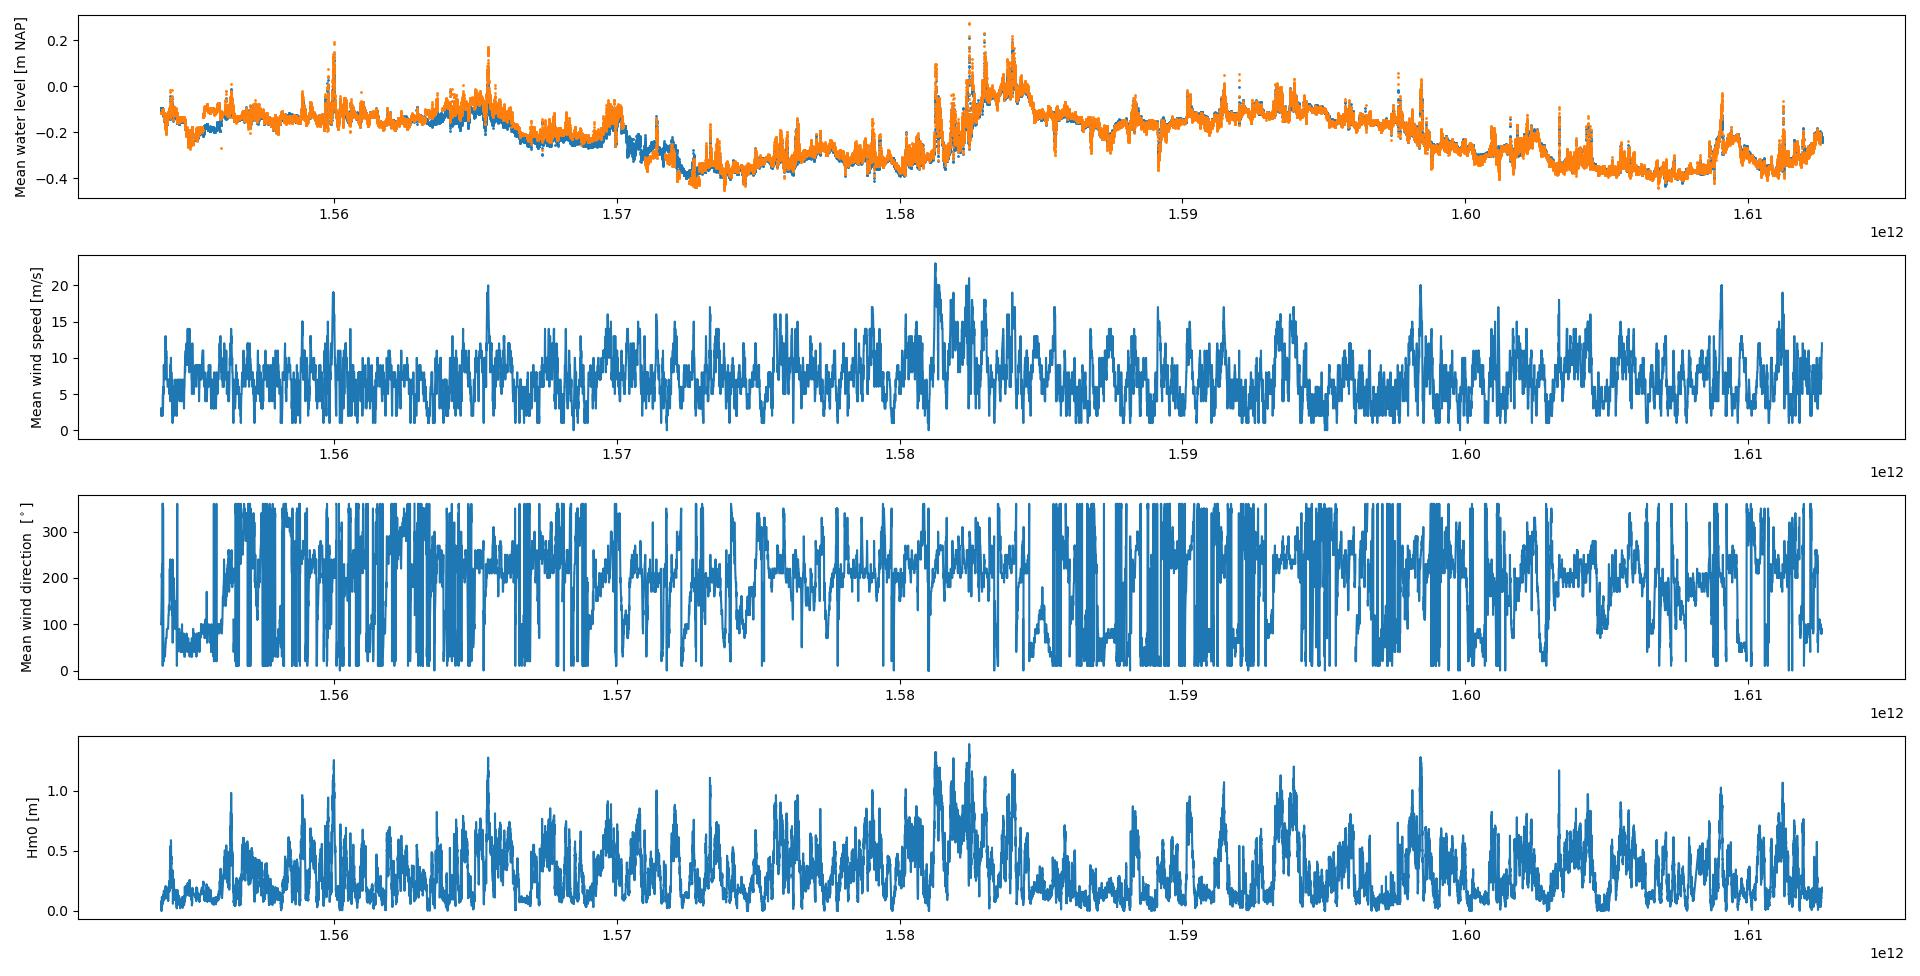
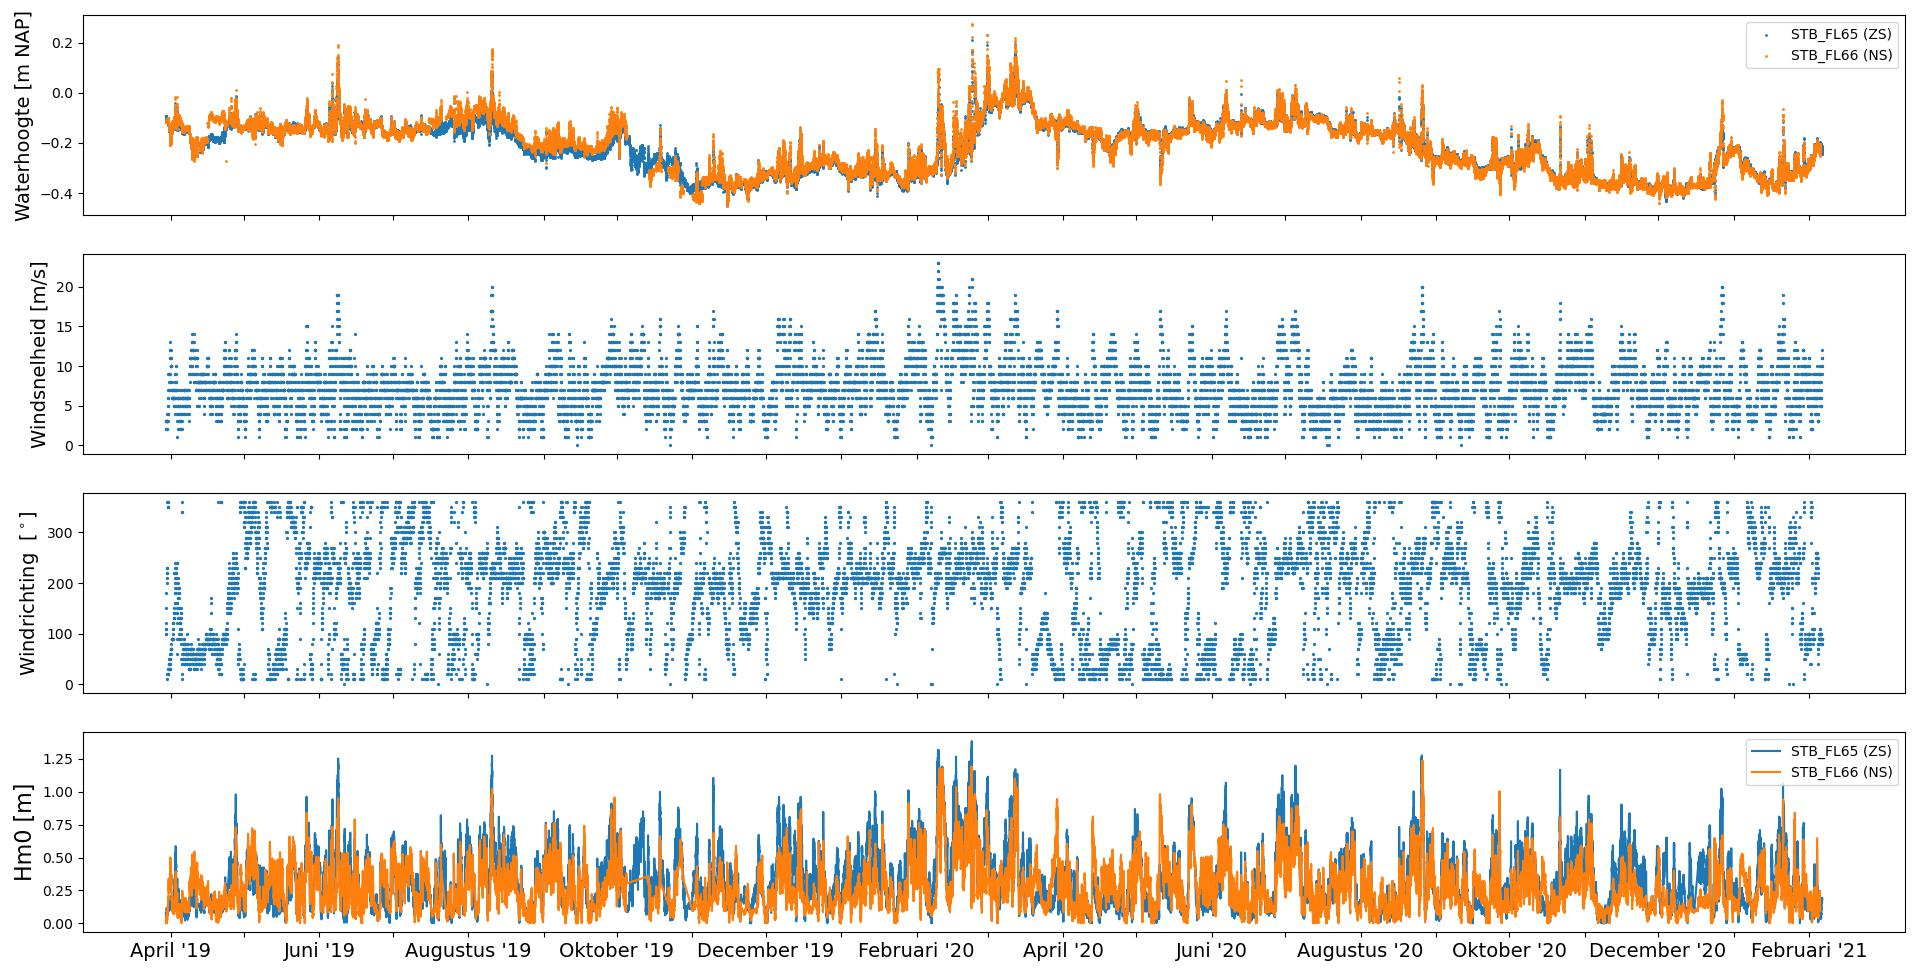
Update Plot_FL65_FL66

diff --git a/Hydrodynamics/plot_FL65_FL66.py b/Hydrodynamics/plot_FL65_FL66.py
@@ -11,29 +11,48 @@ t1 = file2read.variables['time']
 
 file2read = netCDF4.Dataset('Hydrodynamic_Data/STB_FL66_All.nc', 'r') 
 var2 = file2read.variables['GEM_WATHTE']
+Hm02 = file2read.variables['Hm0']
 t2 = file2read.variables['time']
 
 plt.subplot(4,1,1)
-plt.scatter(t1[:], var[:], s=1)
-plt.scatter(t2[:], var2[:], s=1)
-plt.ylabel('Mean water level [m NAP]')
-
+plt.scatter(t1[:], var[:], s=1, label='STB_FL65 (ZS)')
+plt.scatter(t2[:], var2[:], s=1, label='STB_FL66 (NS)')
+plt.ylabel('Waterhoogte [m NAP]', fontsize=14)
+plt.xticks([1554076800000, 1556668800000, 1559347200000, 1561939200000, 1564617600000, 1567296000000, 1569888000000, 1572566400000, 1575158400000, 
+            1577836800000, 1580515200000, 1583020800000, 1585699200000, 1588291200000, 1590969600000, 1593561600000, 1596240000000, 1598918400000,
+            1601510400000, 1604188800000, 1606780800000, 1609459200000, 1612137600000], 
+           [ " " , " " , " " , " ",  " " , " ", " ", " " , " ", " ", " ", " ", " ", " " ," ", " ", " ", " ", " ", " " , " ",  " ", " "])
+plt.legend()
 WindData_Uur = np.array(pd.read_csv('Hydrodynamic_Data/WindData_Uur_Houtribdijk_Period.csv'))
 WindDirection = WindData_Uur[:,3]
 WindDirectionFilt = np.where(WindDirection==990, np.nan, WindDirection)
 
 plt.subplot(4,1,2)
 plt.scatter(WindData_Uur[:,0], WindData_Uur[:,4]/10,s=1.75)
-plt.ylabel('Mean wind speed [m/s]')
+plt.ylabel('Windsnelheid [m/s]', fontsize=14)
+plt.xticks([1554076800000, 1556668800000, 1559347200000, 1561939200000, 1564617600000, 1567296000000, 1569888000000, 1572566400000, 1575158400000, 
+            1577836800000, 1580515200000, 1583020800000, 1585699200000, 1588291200000, 1590969600000, 1593561600000, 1596240000000, 1598918400000,
+            1601510400000, 1604188800000, 1606780800000, 1609459200000, 1612137600000], 
+           [ " " , " " , " " , " ",  " " , " ", " ", " " , " ", " ", " ", " ", " ", " " ," ", " ", " ", " ", " ", " " , " ",  " ", " "])
 
 plt.subplot(4,1,3)
 plt.scatter(WindData_Uur[:,0], WindDirectionFilt,s=1.75)
-plt.ylabel('Mean wind direction  [$^\circ$]')
+plt.ylabel('Windrichting  [$^\circ$]', fontsize=14)
+plt.xticks([1554076800000, 1556668800000, 1559347200000, 1561939200000, 1564617600000, 1567296000000, 1569888000000, 1572566400000, 1575158400000, 
+            1577836800000, 1580515200000, 1583020800000, 1585699200000, 1588291200000, 1590969600000, 1593561600000, 1596240000000, 1598918400000,
+            1601510400000, 1604188800000, 1606780800000, 1609459200000, 1612137600000], 
+           [ " " , " " , " " , " ",  " " , " ", " ", " " , " ", " ", " ", " ", " ", " " ," ", " ", " ", " ", " ", " " , " ",  " ", " "])
 
 plt.subplot(4,1,4)
-plt.plot(t1[:], Hm0[:])
-plt.ylabel('Hm0 [m]')
-
+plt.plot(t1[:], Hm0[:], label='STB_FL65 (ZS)')
+plt.plot(t2[:], Hm02[:], label='STB_FL66 (NS)')
+plt.ylabel('Hm0 [m]', fontsize=16)
+plt.xticks([1554076800000, 1556668800000, 1559347200000, 1561939200000, 1564617600000, 1567296000000, 1569888000000, 1572566400000, 1575158400000, 
+            1577836800000, 1580515200000, 1583020800000, 1585699200000, 1588291200000, 1590969600000, 1593561600000, 1596240000000, 1598918400000,
+            1601510400000, 1604188800000, 1606780800000, 1609459200000, 1612137600000], 
+           ["April '19", " " ,"Juni '19", " ", "Augustus '19", " ", "Oktober '19", " " , "December '19", " ", "Februari '20", " ", "April '20", 
+            " " ,"Juni '20", " ", "Augustus '20", " ", "Oktober '20", " " , "December '20",  " ", "Februari '21"], fontsize=14)
+plt.legend(loc=1)
 plt.show()
 
 
